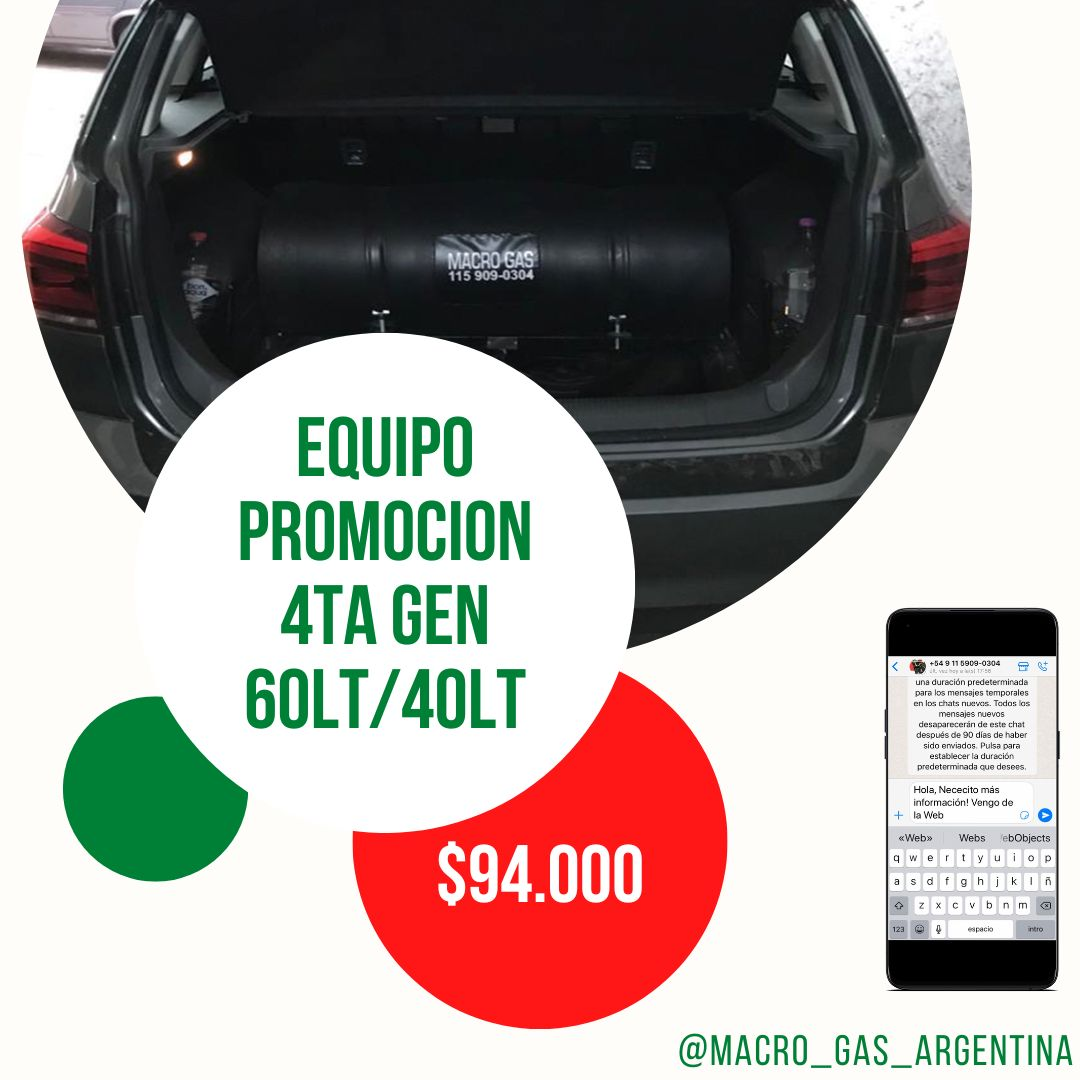
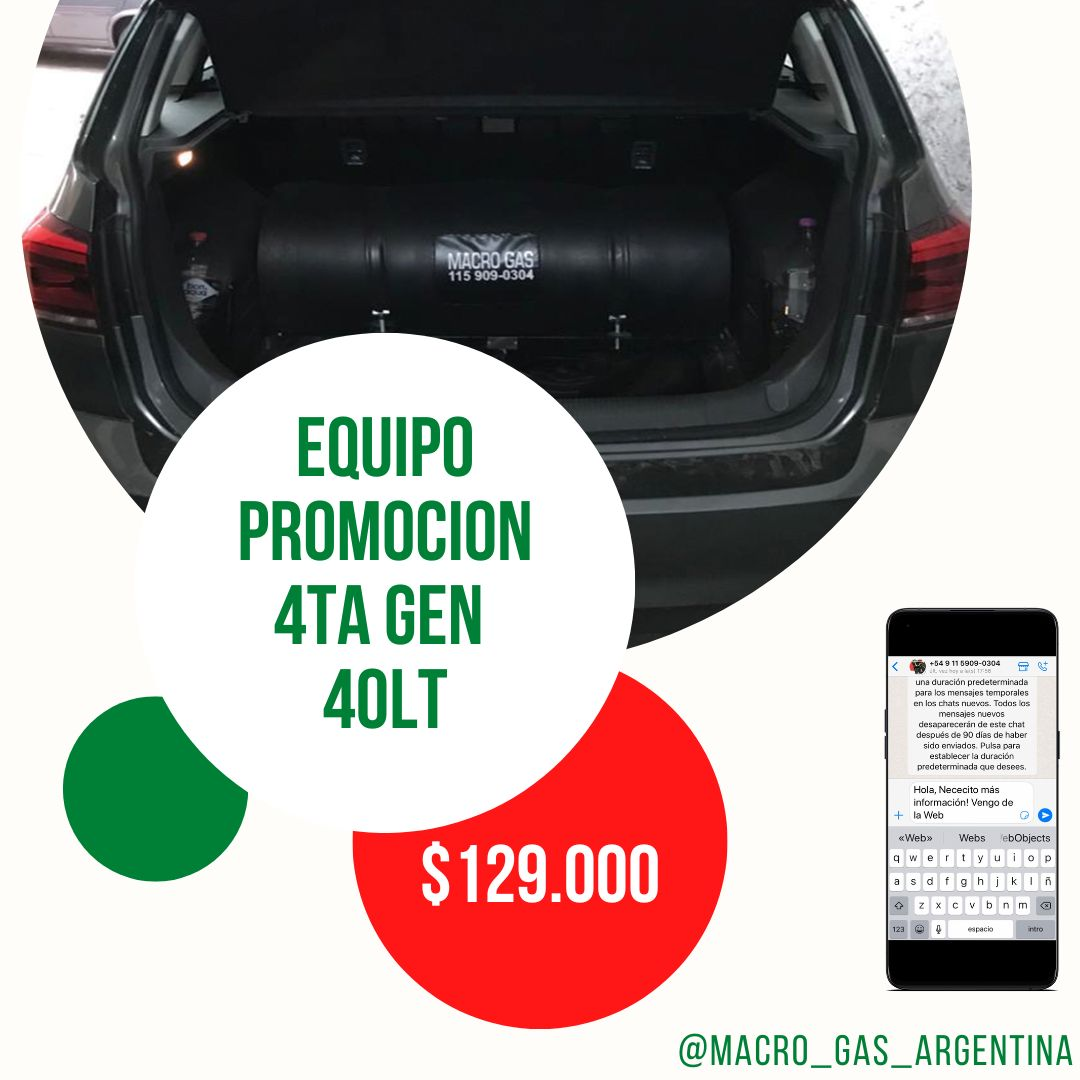
Actualizacion de precios en imgs Promos

Changed region(s): [[0.2139, 0.5194, 0.4889, 0.6722], [0.3667, 0.7639, 0.6111, 0.8556]]

diff --git a/index.html b/index.html
@@ -233,7 +233,7 @@
     </div>
     </main>
     <footer>
-        <iframe id="obleaConsulta" class="iframeOblea"
+        <iframe id="obleaConsultaDinamica" class="iframeOblea"
     title="obleaConsulta"
     height="370"
     src="https://www.enargas.gob.ar/secciones/gas-natural-comprimido/consulta-dominio.php"
